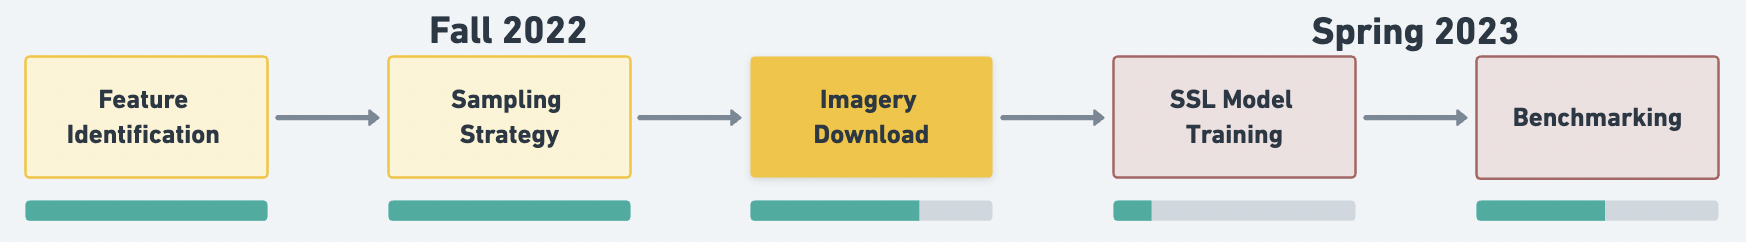
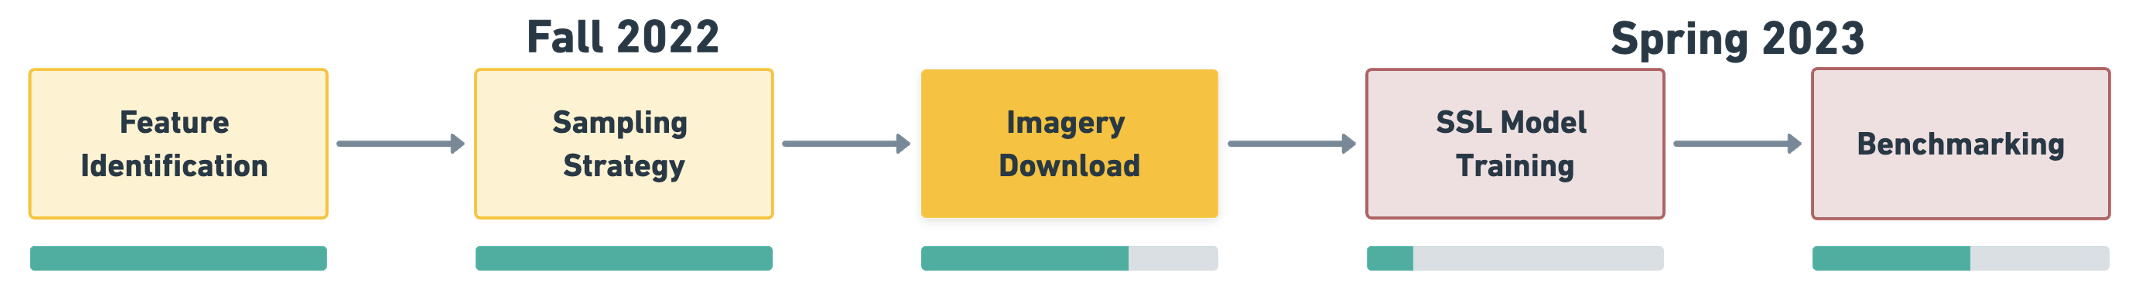
Small change to image

diff --git a/index.html b/index.html
@@ -161,7 +161,7 @@ cons.min.css" rel="stylesheet">
             <h2>Methods and Materials</h2>
           </div>
           <div>
-            <img src="assets/img/5-stages.png" class="img-fluid" alt="">
+            <img src="assets/img/5-stages.png" class="img-fluid" alt="" width="70%" height="auto">
           </div>
           <div class="col-lg-6">
             <img src="assets/img/sample-distribution.png" class="img-fluid" alt="">
